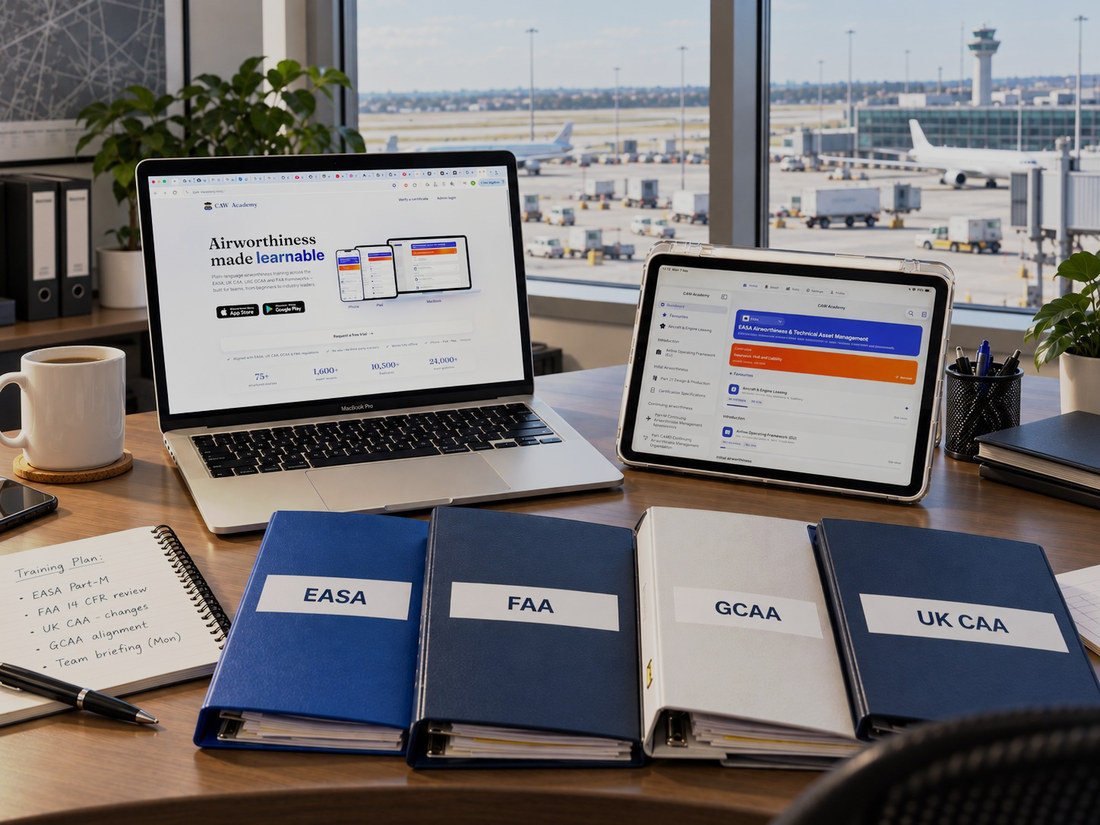
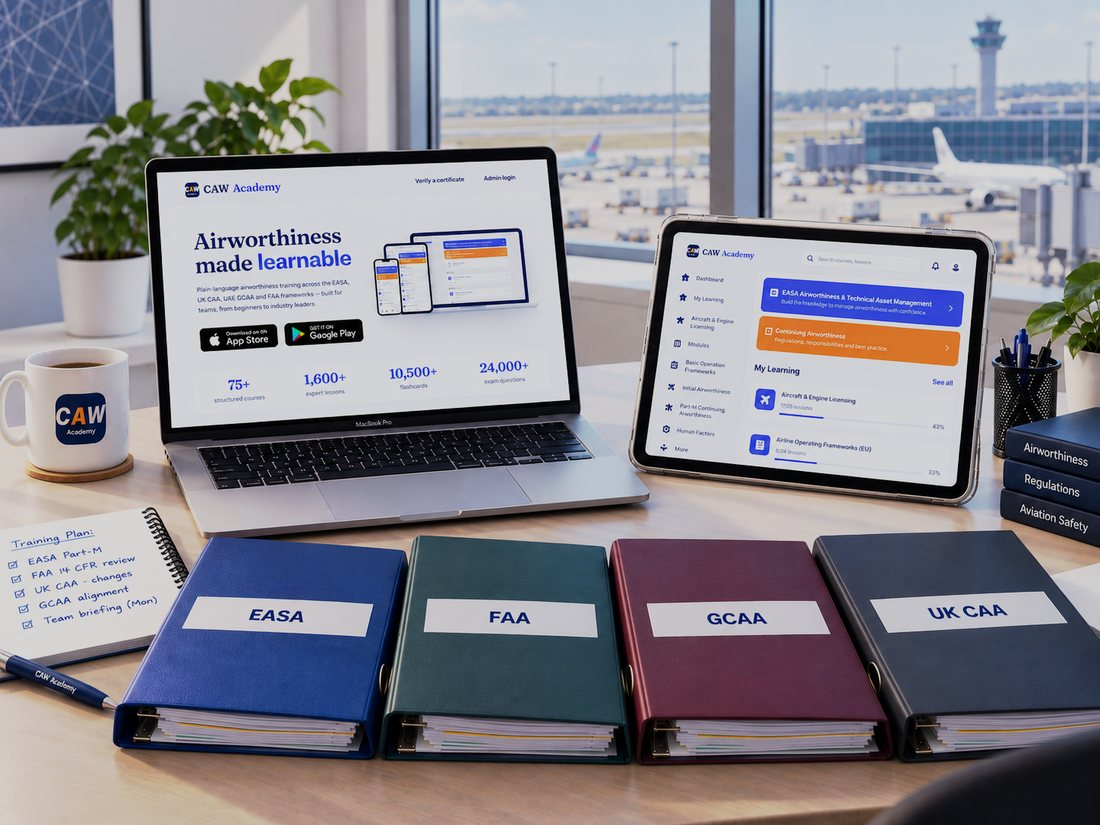
Add files via upload

diff --git a/style.css b/style.css
@@ -1023,9 +1023,15 @@ body{background:var(--bg)}
      height by trimming the sides — so the crop is biased RIGHT: the UK CAA
      binder is the reason this photograph exists, the mug at the left is not.
      Consequence to know: a taller copy column means a taller card means MORE
-     side trim. The two pull against each other. */
+     side trim. The two pull against each other.
+     82%, not 62%: the four binders span x 142-1440 of the 1448px master, which
+     is wider than this box can ever show, so the row MUST bleed off both edges.
+     What has to survive is the four LABELS — x 252 (EASA) to 1387 (UK CAA),
+     1135px against ~1156px of visible width. 82% puts the window at 239-1395:
+     both end labels whole with ~8px to spare, and the left bleed falls on the
+     MacBook's edge, which already bled off this frame at 62%. Do not lower it. */
   .banner-card img{width:100%; height:100%; aspect-ratio:auto;
-    object-fit:cover; object-position:62% 50%}
+    object-fit:cover; object-position:82% 50%}
 
   .stk.copy-card{margin:0; border-radius:0 var(--stack-radius) var(--stack-radius) 0;
     /* the foot must clear the lap of the card below (84px) or that card covers

diff --git a/verify.html b/verify.html
@@ -7,7 +7,7 @@
 <meta name="theme-color" content="#3E44B5">
 <meta http-equiv="Content-Security-Policy" content="default-src 'self'; base-uri 'none'; frame-ancestors 'none'; object-src 'none'; img-src 'self' data:; style-src 'self' 'unsafe-inline'; script-src 'self'; connect-src 'self' https://api.caw-academy.com; form-action 'self'">
 <link rel="icon" href="favicon.ico">
-<link rel="stylesheet" href="style.css?v=64">
+<link rel="stylesheet" href="style.css?v=72">
 <style>
   .acct-wrap{max-width:560px; margin:6vh auto 80px; padding:0 20px}
   .acct-card{background:#fff; border:1px solid var(--line); border-radius:18px; padding:26px 24px; box-shadow:var(--shadow-md)}

diff --git a/index.html b/index.html
@@ -97,7 +97,7 @@
 <link rel="preload" as="image" href="screens/hero-welcome-1100.webp"
       imagesrcset="screens/hero-welcome-768.webp 768w, screens/hero-welcome-1100.webp 1100w, screens/hero-welcome-1448.webp 1448w"
       imagesizes="(min-width:1025px) 1120px, 100vw" fetchpriority="high">
-<link rel="stylesheet" href="style.css?v=71">
+<link rel="stylesheet" href="style.css?v=72">
 <link rel="stylesheet" href="caw-interactive.css?v=26">
 </head>
 <body>

diff --git a/privacy.html b/privacy.html
@@ -8,7 +8,7 @@
 <link rel="icon" type="image/png" sizes="192x192" href="icon-192.png?v=3">
 <link rel="icon" type="image/png" sizes="32x32" href="icon-192.png?v=3">
 <link rel="apple-touch-icon" href="apple-touch-icon.png?v=3">
-<link rel="stylesheet" href="style.css?v=64">
+<link rel="stylesheet" href="style.css?v=72">
 </head>
 <body class="page-short">
 

diff --git a/support.html b/support.html
@@ -8,7 +8,7 @@
 <link rel="icon" type="image/png" sizes="192x192" href="icon-192.png?v=3">
 <link rel="icon" type="image/png" sizes="32x32" href="icon-192.png?v=3">
 <link rel="apple-touch-icon" href="apple-touch-icon.png?v=3">
-<link rel="stylesheet" href="style.css?v=64">
+<link rel="stylesheet" href="style.css?v=72">
 </head>
 <body class="page-short">
 

diff --git a/terms.html b/terms.html
@@ -8,7 +8,7 @@
 <link rel="icon" type="image/png" sizes="192x192" href="icon-192.png?v=3">
 <link rel="icon" type="image/png" sizes="32x32" href="icon-192.png?v=3">
 <link rel="apple-touch-icon" href="apple-touch-icon.png?v=3">
-<link rel="stylesheet" href="style.css?v=64">
+<link rel="stylesheet" href="style.css?v=72">
 </head>
 <body class="page-short">
 
